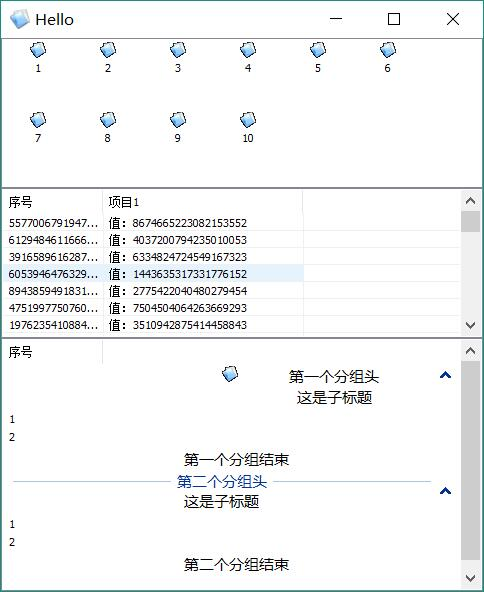
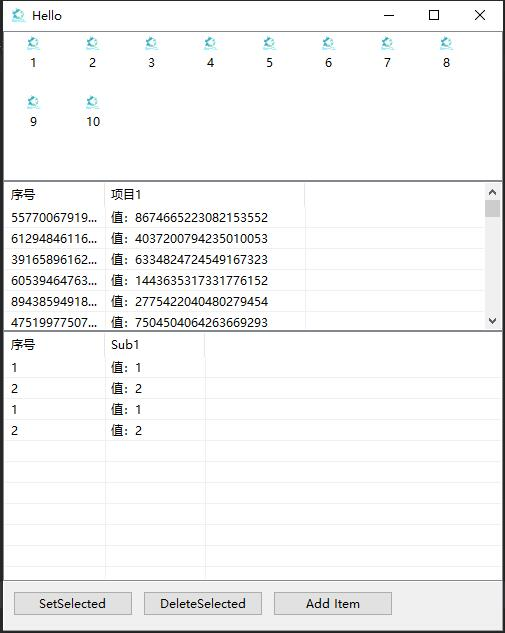
update listview example.

diff --git a/samples/listview/main.go b/samples/listview/main.go
@@ -98,17 +98,19 @@ func main() {
 	lv2 := vcl.NewListView(mainForm)
 	lv2.SetParent(mainForm)
 	lv2.SetAlign(types.AlTop)
-	lv2.SetRowSelect(true)
-	lv2.SetReadOnly(true)
+	//lv2.SetRowSelect(true)
+	//lv2.SetReadOnly(true)
 	lv2.SetViewStyle(types.VsIcon)
 	//lv2.SetSmallImages(imgList)
 	lv2.SetLargeImages(imgList)
+	// 因为这时候还没有计算altop的，所以要手动设置宽度，这样添加的值才会根据当前宽度排列
+	lv2.SetWidth(mainForm.Width())
 	//lv2.SetStateImages(imgList)
 
 	lv2.SetOnClick(func(vcl.IObject) {
 		if lv2.ItemIndex() != -1 {
 			item := lv2.Selected()
-			fmt.Println(item.Caption(), ", ", item.SubItems().Strings(0))
+			fmt.Println(item.Caption())
 		}
 	})
 	// 双击删除选中项
@@ -123,11 +125,10 @@ func main() {
 		item.SetImageIndex(0)
 		// 第一列为Caption属性所管理
 		item.SetCaption(fmt.Sprintf("%d", i))
-		item.SubItems().Add(fmt.Sprintf("值：%d", i))
 	}
 	lv2.Items().EndUpdate()
 
-	// lv3 Group
+	// lv3
 	lv3 := vcl.NewListView(mainForm)
 	lv3.SetParent(mainForm)
 	lv3.SetAlign(types.AlClient)
